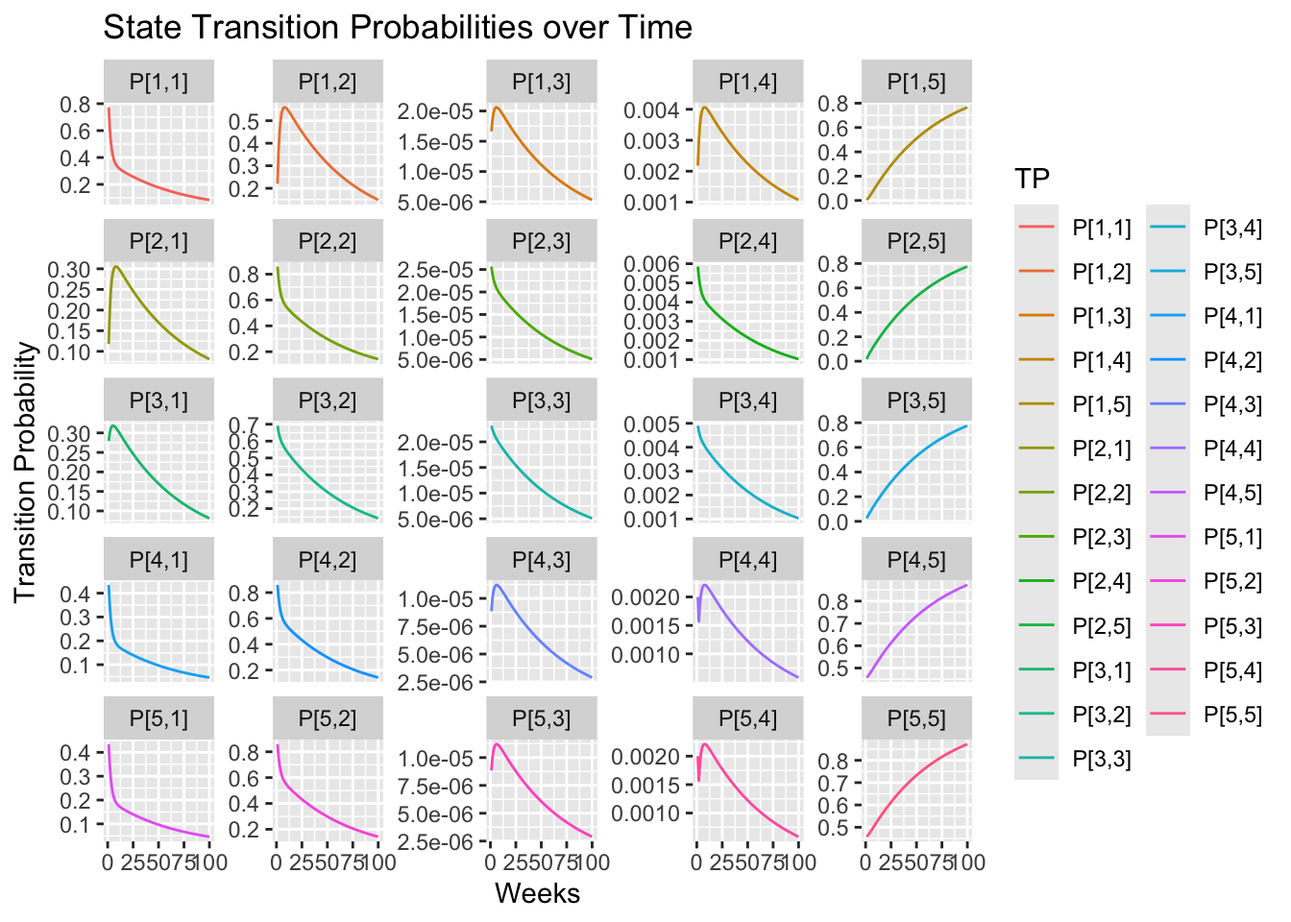
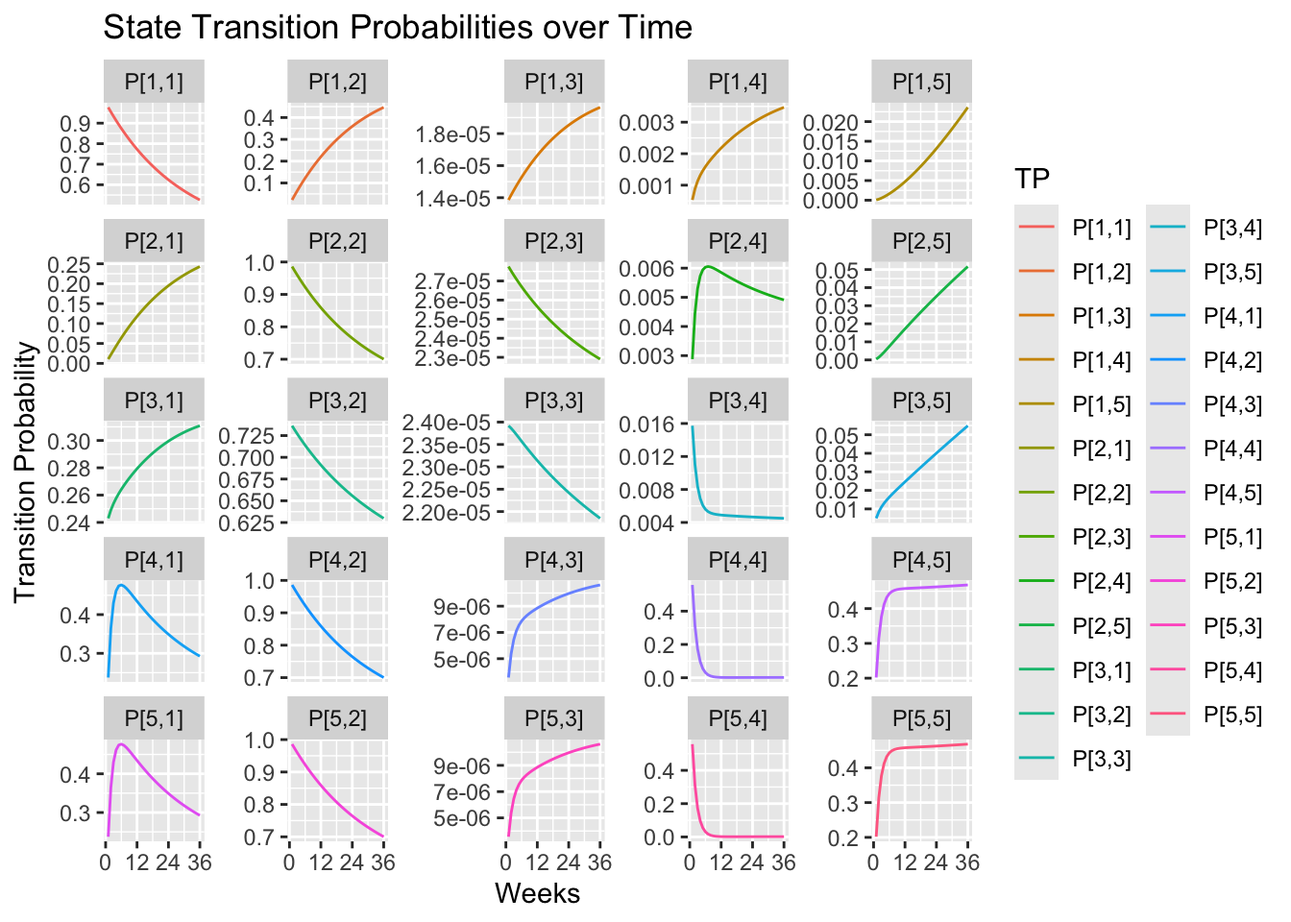
5 state em render products

Changed region(s): [[0.0312, 0.0625, 0.7812, 0.9688]]

diff --git a/5-state-EM.html b/5-state-EM.html
@@ -111,47 +111,46 @@ pre > code.sourceCode > span > a:first-child::before { text-decoration: underlin
 <div class="cell">
 <details>
 <summary>Helper Functions</summary>
-<div class="sourceCode cell-code" id="cb2"><pre class="sourceCode r code-with-copy"><code class="sourceCode r"><span id="cb2-1"><a href="#cb2-1" aria-hidden="true" tabindex="-1"></a>TP5 <span class="ot">&lt;-</span> <span class="cf">function</span>(Q, N){</span>
+<div class="sourceCode cell-code" id="cb2"><pre class="sourceCode r code-with-copy"><code class="sourceCode r"><span id="cb2-1"><a href="#cb2-1" aria-hidden="true" tabindex="-1"></a>TP5 <span class="ot">&lt;-</span> <span class="cf">function</span>(Q, Time){</span>
 <span id="cb2-2"><a href="#cb2-2" aria-hidden="true" tabindex="-1"></a>  <span class="cf">if</span> (<span class="fu">dim</span>(Q)[<span class="dv">1</span>]<span class="sc">*</span><span class="fu">dim</span>(Q)[<span class="dv">2</span>] <span class="sc">!=</span> <span class="dv">25</span>){<span class="fu">stop</span>(<span class="st">"Matrix 'Q' must b e 5 x 5."</span>)}</span>
-<span id="cb2-3"><a href="#cb2-3" aria-hidden="true" tabindex="-1"></a>Time <span class="ot">&lt;-</span> <span class="fu">seq</span>(<span class="dv">1</span>,N)</span>
-<span id="cb2-4"><a href="#cb2-4" aria-hidden="true" tabindex="-1"></a>TP <span class="ot">&lt;-</span> <span class="fu">matrix</span>(<span class="dv">0</span>, <span class="at">nrow=</span><span class="fu">length</span>(Time), <span class="at">ncol=</span><span class="dv">25</span>)</span>
-<span id="cb2-5"><a href="#cb2-5" aria-hidden="true" tabindex="-1"></a><span class="cf">for</span> (t <span class="cf">in</span> Time) {</span>
-<span id="cb2-6"><a href="#cb2-6" aria-hidden="true" tabindex="-1"></a>  P <span class="ot">&lt;-</span> <span class="fu">expm</span>(Q <span class="sc">*</span> t)</span>
-<span id="cb2-7"><a href="#cb2-7" aria-hidden="true" tabindex="-1"></a>  TP[t,<span class="dv">1</span>] <span class="ot">&lt;-</span> P[<span class="dv">1</span>,<span class="dv">1</span>]</span>
-<span id="cb2-8"><a href="#cb2-8" aria-hidden="true" tabindex="-1"></a>  TP[t,<span class="dv">2</span>] <span class="ot">&lt;-</span> P[<span class="dv">1</span>,<span class="dv">2</span>]</span>
-<span id="cb2-9"><a href="#cb2-9" aria-hidden="true" tabindex="-1"></a>  TP[t,<span class="dv">3</span>] <span class="ot">&lt;-</span> P[<span class="dv">1</span>,<span class="dv">3</span>]</span>
-<span id="cb2-10"><a href="#cb2-10" aria-hidden="true" tabindex="-1"></a>  TP[t,<span class="dv">4</span>] <span class="ot">&lt;-</span> P[<span class="dv">1</span>,<span class="dv">4</span>]</span>
-<span id="cb2-11"><a href="#cb2-11" aria-hidden="true" tabindex="-1"></a>  TP[t,<span class="dv">5</span>] <span class="ot">&lt;-</span> P[<span class="dv">1</span>,<span class="dv">5</span>]</span>
-<span id="cb2-12"><a href="#cb2-12" aria-hidden="true" tabindex="-1"></a>  </span>
-<span id="cb2-13"><a href="#cb2-13" aria-hidden="true" tabindex="-1"></a>  TP[t,<span class="dv">6</span>] <span class="ot">&lt;-</span> P[<span class="dv">2</span>,<span class="dv">1</span>]</span>
-<span id="cb2-14"><a href="#cb2-14" aria-hidden="true" tabindex="-1"></a>  TP[t,<span class="dv">7</span>] <span class="ot">&lt;-</span> P[<span class="dv">2</span>,<span class="dv">2</span>]</span>
-<span id="cb2-15"><a href="#cb2-15" aria-hidden="true" tabindex="-1"></a>  TP[t,<span class="dv">8</span>] <span class="ot">&lt;-</span> P[<span class="dv">2</span>,<span class="dv">3</span>]</span>
-<span id="cb2-16"><a href="#cb2-16" aria-hidden="true" tabindex="-1"></a>  TP[t,<span class="dv">9</span>] <span class="ot">&lt;-</span> P[<span class="dv">2</span>,<span class="dv">4</span>]</span>
-<span id="cb2-17"><a href="#cb2-17" aria-hidden="true" tabindex="-1"></a>  TP[t,<span class="dv">10</span>] <span class="ot">&lt;-</span> P[<span class="dv">2</span>,<span class="dv">5</span>]</span>
-<span id="cb2-18"><a href="#cb2-18" aria-hidden="true" tabindex="-1"></a>  </span>
-<span id="cb2-19"><a href="#cb2-19" aria-hidden="true" tabindex="-1"></a>  TP[t,<span class="dv">11</span>] <span class="ot">&lt;-</span> P[<span class="dv">3</span>,<span class="dv">1</span>]</span>
-<span id="cb2-20"><a href="#cb2-20" aria-hidden="true" tabindex="-1"></a>  TP[t,<span class="dv">12</span>] <span class="ot">&lt;-</span> P[<span class="dv">3</span>,<span class="dv">2</span>]</span>
-<span id="cb2-21"><a href="#cb2-21" aria-hidden="true" tabindex="-1"></a>  TP[t,<span class="dv">13</span>] <span class="ot">&lt;-</span> P[<span class="dv">3</span>,<span class="dv">3</span>]</span>
-<span id="cb2-22"><a href="#cb2-22" aria-hidden="true" tabindex="-1"></a>  TP[t,<span class="dv">14</span>] <span class="ot">&lt;-</span> P[<span class="dv">3</span>,<span class="dv">4</span>]</span>
-<span id="cb2-23"><a href="#cb2-23" aria-hidden="true" tabindex="-1"></a>  TP[t,<span class="dv">15</span>] <span class="ot">&lt;-</span> P[<span class="dv">3</span>,<span class="dv">5</span>]</span>
-<span id="cb2-24"><a href="#cb2-24" aria-hidden="true" tabindex="-1"></a>  </span>
-<span id="cb2-25"><a href="#cb2-25" aria-hidden="true" tabindex="-1"></a>  TP[t,<span class="dv">16</span>] <span class="ot">&lt;-</span> P[<span class="dv">4</span>,<span class="dv">1</span>]</span>
-<span id="cb2-26"><a href="#cb2-26" aria-hidden="true" tabindex="-1"></a>  TP[t,<span class="dv">17</span>] <span class="ot">&lt;-</span> P[<span class="dv">2</span>,<span class="dv">2</span>]</span>
-<span id="cb2-27"><a href="#cb2-27" aria-hidden="true" tabindex="-1"></a>  TP[t,<span class="dv">18</span>] <span class="ot">&lt;-</span> P[<span class="dv">4</span>,<span class="dv">3</span>]</span>
-<span id="cb2-28"><a href="#cb2-28" aria-hidden="true" tabindex="-1"></a>  TP[t,<span class="dv">19</span>] <span class="ot">&lt;-</span> P[<span class="dv">4</span>,<span class="dv">4</span>]</span>
-<span id="cb2-29"><a href="#cb2-29" aria-hidden="true" tabindex="-1"></a>  TP[t,<span class="dv">20</span>] <span class="ot">&lt;-</span> P[<span class="dv">4</span>,<span class="dv">5</span>]</span>
-<span id="cb2-30"><a href="#cb2-30" aria-hidden="true" tabindex="-1"></a>  </span>
-<span id="cb2-31"><a href="#cb2-31" aria-hidden="true" tabindex="-1"></a>  TP[t,<span class="dv">21</span>] <span class="ot">&lt;-</span> P[<span class="dv">4</span>,<span class="dv">1</span>]</span>
-<span id="cb2-32"><a href="#cb2-32" aria-hidden="true" tabindex="-1"></a>  TP[t,<span class="dv">22</span>] <span class="ot">&lt;-</span> P[<span class="dv">2</span>,<span class="dv">2</span>]</span>
-<span id="cb2-33"><a href="#cb2-33" aria-hidden="true" tabindex="-1"></a>  TP[t,<span class="dv">23</span>] <span class="ot">&lt;-</span> P[<span class="dv">4</span>,<span class="dv">3</span>]</span>
-<span id="cb2-34"><a href="#cb2-34" aria-hidden="true" tabindex="-1"></a>  TP[t,<span class="dv">24</span>] <span class="ot">&lt;-</span> P[<span class="dv">4</span>,<span class="dv">4</span>]</span>
-<span id="cb2-35"><a href="#cb2-35" aria-hidden="true" tabindex="-1"></a>  TP[t,<span class="dv">25</span>] <span class="ot">&lt;-</span> P[<span class="dv">4</span>,<span class="dv">5</span>]</span>
-<span id="cb2-36"><a href="#cb2-36" aria-hidden="true" tabindex="-1"></a>  </span>
-<span id="cb2-37"><a href="#cb2-37" aria-hidden="true" tabindex="-1"></a>}</span>
-<span id="cb2-38"><a href="#cb2-38" aria-hidden="true" tabindex="-1"></a></span>
-<span id="cb2-39"><a href="#cb2-39" aria-hidden="true" tabindex="-1"></a><span class="fu">return</span>(<span class="fu">list</span>(TP,Time))</span>
-<span id="cb2-40"><a href="#cb2-40" aria-hidden="true" tabindex="-1"></a></span>
-<span id="cb2-41"><a href="#cb2-41" aria-hidden="true" tabindex="-1"></a>}</span></code><button title="Copy to Clipboard" class="code-copy-button"><i class="bi"></i></button></pre></div>
+<span id="cb2-3"><a href="#cb2-3" aria-hidden="true" tabindex="-1"></a>TP <span class="ot">&lt;-</span> <span class="fu">matrix</span>(<span class="dv">0</span>, <span class="at">nrow=</span><span class="fu">length</span>(Time), <span class="at">ncol=</span><span class="dv">25</span>)</span>
+<span id="cb2-4"><a href="#cb2-4" aria-hidden="true" tabindex="-1"></a><span class="cf">for</span> (t <span class="cf">in</span> <span class="dv">1</span><span class="sc">:</span><span class="fu">length</span>(Time)){</span>
+<span id="cb2-5"><a href="#cb2-5" aria-hidden="true" tabindex="-1"></a>  P <span class="ot">&lt;-</span> <span class="fu">expm</span>(Q <span class="sc">*</span> Time[t])</span>
+<span id="cb2-6"><a href="#cb2-6" aria-hidden="true" tabindex="-1"></a>  TP[t,<span class="dv">1</span>] <span class="ot">&lt;-</span> P[<span class="dv">1</span>,<span class="dv">1</span>]</span>
+<span id="cb2-7"><a href="#cb2-7" aria-hidden="true" tabindex="-1"></a>  TP[t,<span class="dv">2</span>] <span class="ot">&lt;-</span> P[<span class="dv">1</span>,<span class="dv">2</span>]</span>
+<span id="cb2-8"><a href="#cb2-8" aria-hidden="true" tabindex="-1"></a>  TP[t,<span class="dv">3</span>] <span class="ot">&lt;-</span> P[<span class="dv">1</span>,<span class="dv">3</span>]</span>
+<span id="cb2-9"><a href="#cb2-9" aria-hidden="true" tabindex="-1"></a>  TP[t,<span class="dv">4</span>] <span class="ot">&lt;-</span> P[<span class="dv">1</span>,<span class="dv">4</span>]</span>
+<span id="cb2-10"><a href="#cb2-10" aria-hidden="true" tabindex="-1"></a>  TP[t,<span class="dv">5</span>] <span class="ot">&lt;-</span> P[<span class="dv">1</span>,<span class="dv">5</span>]</span>
+<span id="cb2-11"><a href="#cb2-11" aria-hidden="true" tabindex="-1"></a>  </span>
+<span id="cb2-12"><a href="#cb2-12" aria-hidden="true" tabindex="-1"></a>  TP[t,<span class="dv">6</span>] <span class="ot">&lt;-</span> P[<span class="dv">2</span>,<span class="dv">1</span>]</span>
+<span id="cb2-13"><a href="#cb2-13" aria-hidden="true" tabindex="-1"></a>  TP[t,<span class="dv">7</span>] <span class="ot">&lt;-</span> P[<span class="dv">2</span>,<span class="dv">2</span>]</span>
+<span id="cb2-14"><a href="#cb2-14" aria-hidden="true" tabindex="-1"></a>  TP[t,<span class="dv">8</span>] <span class="ot">&lt;-</span> P[<span class="dv">2</span>,<span class="dv">3</span>]</span>
+<span id="cb2-15"><a href="#cb2-15" aria-hidden="true" tabindex="-1"></a>  TP[t,<span class="dv">9</span>] <span class="ot">&lt;-</span> P[<span class="dv">2</span>,<span class="dv">4</span>]</span>
+<span id="cb2-16"><a href="#cb2-16" aria-hidden="true" tabindex="-1"></a>  TP[t,<span class="dv">10</span>] <span class="ot">&lt;-</span> P[<span class="dv">2</span>,<span class="dv">5</span>]</span>
+<span id="cb2-17"><a href="#cb2-17" aria-hidden="true" tabindex="-1"></a>  </span>
+<span id="cb2-18"><a href="#cb2-18" aria-hidden="true" tabindex="-1"></a>  TP[t,<span class="dv">11</span>] <span class="ot">&lt;-</span> P[<span class="dv">3</span>,<span class="dv">1</span>]</span>
+<span id="cb2-19"><a href="#cb2-19" aria-hidden="true" tabindex="-1"></a>  TP[t,<span class="dv">12</span>] <span class="ot">&lt;-</span> P[<span class="dv">3</span>,<span class="dv">2</span>]</span>
+<span id="cb2-20"><a href="#cb2-20" aria-hidden="true" tabindex="-1"></a>  TP[t,<span class="dv">13</span>] <span class="ot">&lt;-</span> P[<span class="dv">3</span>,<span class="dv">3</span>]</span>
+<span id="cb2-21"><a href="#cb2-21" aria-hidden="true" tabindex="-1"></a>  TP[t,<span class="dv">14</span>] <span class="ot">&lt;-</span> P[<span class="dv">3</span>,<span class="dv">4</span>]</span>
+<span id="cb2-22"><a href="#cb2-22" aria-hidden="true" tabindex="-1"></a>  TP[t,<span class="dv">15</span>] <span class="ot">&lt;-</span> P[<span class="dv">3</span>,<span class="dv">5</span>]</span>
+<span id="cb2-23"><a href="#cb2-23" aria-hidden="true" tabindex="-1"></a>  </span>
+<span id="cb2-24"><a href="#cb2-24" aria-hidden="true" tabindex="-1"></a>  TP[t,<span class="dv">16</span>] <span class="ot">&lt;-</span> P[<span class="dv">4</span>,<span class="dv">1</span>]</span>
+<span id="cb2-25"><a href="#cb2-25" aria-hidden="true" tabindex="-1"></a>  TP[t,<span class="dv">17</span>] <span class="ot">&lt;-</span> P[<span class="dv">2</span>,<span class="dv">2</span>]</span>
+<span id="cb2-26"><a href="#cb2-26" aria-hidden="true" tabindex="-1"></a>  TP[t,<span class="dv">18</span>] <span class="ot">&lt;-</span> P[<span class="dv">4</span>,<span class="dv">3</span>]</span>
+<span id="cb2-27"><a href="#cb2-27" aria-hidden="true" tabindex="-1"></a>  TP[t,<span class="dv">19</span>] <span class="ot">&lt;-</span> P[<span class="dv">4</span>,<span class="dv">4</span>]</span>
+<span id="cb2-28"><a href="#cb2-28" aria-hidden="true" tabindex="-1"></a>  TP[t,<span class="dv">20</span>] <span class="ot">&lt;-</span> P[<span class="dv">4</span>,<span class="dv">5</span>]</span>
+<span id="cb2-29"><a href="#cb2-29" aria-hidden="true" tabindex="-1"></a>  </span>
+<span id="cb2-30"><a href="#cb2-30" aria-hidden="true" tabindex="-1"></a>  TP[t,<span class="dv">21</span>] <span class="ot">&lt;-</span> P[<span class="dv">4</span>,<span class="dv">1</span>]</span>
+<span id="cb2-31"><a href="#cb2-31" aria-hidden="true" tabindex="-1"></a>  TP[t,<span class="dv">22</span>] <span class="ot">&lt;-</span> P[<span class="dv">2</span>,<span class="dv">2</span>]</span>
+<span id="cb2-32"><a href="#cb2-32" aria-hidden="true" tabindex="-1"></a>  TP[t,<span class="dv">23</span>] <span class="ot">&lt;-</span> P[<span class="dv">4</span>,<span class="dv">3</span>]</span>
+<span id="cb2-33"><a href="#cb2-33" aria-hidden="true" tabindex="-1"></a>  TP[t,<span class="dv">24</span>] <span class="ot">&lt;-</span> P[<span class="dv">4</span>,<span class="dv">4</span>]</span>
+<span id="cb2-34"><a href="#cb2-34" aria-hidden="true" tabindex="-1"></a>  TP[t,<span class="dv">25</span>] <span class="ot">&lt;-</span> P[<span class="dv">4</span>,<span class="dv">5</span>]</span>
+<span id="cb2-35"><a href="#cb2-35" aria-hidden="true" tabindex="-1"></a>  </span>
+<span id="cb2-36"><a href="#cb2-36" aria-hidden="true" tabindex="-1"></a>}</span>
+<span id="cb2-37"><a href="#cb2-37" aria-hidden="true" tabindex="-1"></a></span>
+<span id="cb2-38"><a href="#cb2-38" aria-hidden="true" tabindex="-1"></a><span class="fu">return</span>(<span class="fu">list</span>(TP,Time))</span>
+<span id="cb2-39"><a href="#cb2-39" aria-hidden="true" tabindex="-1"></a></span>
+<span id="cb2-40"><a href="#cb2-40" aria-hidden="true" tabindex="-1"></a>}</span></code><button title="Copy to Clipboard" class="code-copy-button"><i class="bi"></i></button></pre></div>
 </details>
 </div>
 <div class="cell">
@@ -208,13 +207,13 @@ pre > code.sourceCode > span > a:first-child::before { text-decoration: underlin
 <div class="cell">
 <details>
 <summary>Q Matrix</summary>
-<div class="sourceCode cell-code" id="cb4"><pre class="sourceCode r code-with-copy"><code class="sourceCode r"><span id="cb4-1"><a href="#cb4-1" aria-hidden="true" tabindex="-1"></a>sem_s <span class="ot">&lt;-</span> <span class="fu">gm</span>(s_state, <span class="at">te=</span><span class="dv">1</span>, <span class="at">method=</span><span class="st">"EM"</span>, <span class="at">gmguess=</span>s0)</span>
+<div class="sourceCode cell-code" id="cb4"><pre class="sourceCode r code-with-copy"><code class="sourceCode r"><span id="cb4-1"><a href="#cb4-1" aria-hidden="true" tabindex="-1"></a>em_s <span class="ot">&lt;-</span> <span class="fu">gm</span>(s_state, <span class="at">te=</span><span class="dv">1</span>, <span class="at">method=</span><span class="st">"EM"</span>, <span class="at">gmguess=</span>s0)</span>
 <span id="cb4-2"><a href="#cb4-2" aria-hidden="true" tabindex="-1"></a></span>
-<span id="cb4-3"><a href="#cb4-3" aria-hidden="true" tabindex="-1"></a> t <span class="ot">&lt;-</span> <span class="dv">1</span>  <span class="co"># time interval</span></span>
-<span id="cb4-4"><a href="#cb4-4" aria-hidden="true" tabindex="-1"></a> Q_s  <span class="ot">&lt;-</span>sem_s<span class="sc">$</span>par</span>
+<span id="cb4-3"><a href="#cb4-3" aria-hidden="true" tabindex="-1"></a> <span class="co">#t &lt;- 1  # time interval</span></span>
+<span id="cb4-4"><a href="#cb4-4" aria-hidden="true" tabindex="-1"></a> Q_s  <span class="ot">&lt;-</span>em_s<span class="sc">$</span>par</span>
 <span id="cb4-5"><a href="#cb4-5" aria-hidden="true" tabindex="-1"></a><span class="co"># round(Q_s,2)</span></span>
 <span id="cb4-6"><a href="#cb4-6" aria-hidden="true" tabindex="-1"></a><span class="co"># cat("time = ", t, "\n")</span></span>
-<span id="cb4-7"><a href="#cb4-7" aria-hidden="true" tabindex="-1"></a><span class="fu">plot</span>(sem_s)</span></code><button title="Copy to Clipboard" class="code-copy-button"><i class="bi"></i></button></pre></div>
+<span id="cb4-7"><a href="#cb4-7" aria-hidden="true" tabindex="-1"></a><span class="fu">plot</span>(em_s)</span></code><button title="Copy to Clipboard" class="code-copy-button"><i class="bi"></i></button></pre></div>
 </details>
 <div class="cell-output-display">
 <p><img src="5-state-EM_files/figure-html/unnamed-chunk-4-1.png" class="img-fluid" width="672"></p>
@@ -223,8 +222,9 @@ pre > code.sourceCode > span > a:first-child::before { text-decoration: underlin
 <div class="cell">
 <details>
 <summary>P matrix</summary>
-<div class="sourceCode cell-code" id="cb5"><pre class="sourceCode r code-with-copy"><code class="sourceCode r"><span id="cb5-1"><a href="#cb5-1" aria-hidden="true" tabindex="-1"></a>P_s <span class="ot">&lt;-</span> <span class="fu">expm</span>(Q_s <span class="sc">*</span> t)</span>
-<span id="cb5-2"><a href="#cb5-2" aria-hidden="true" tabindex="-1"></a><span class="fu">round</span>(P_s,<span class="dv">2</span>)</span></code><button title="Copy to Clipboard" class="code-copy-button"><i class="bi"></i></button></pre></div>
+<div class="sourceCode cell-code" id="cb5"><pre class="sourceCode r code-with-copy"><code class="sourceCode r"><span id="cb5-1"><a href="#cb5-1" aria-hidden="true" tabindex="-1"></a>t <span class="ot">&lt;-</span> <span class="dv">1</span></span>
+<span id="cb5-2"><a href="#cb5-2" aria-hidden="true" tabindex="-1"></a>P_s <span class="ot">&lt;-</span> <span class="fu">expm</span>(Q_s <span class="sc">*</span> t)</span>
+<span id="cb5-3"><a href="#cb5-3" aria-hidden="true" tabindex="-1"></a><span class="fu">round</span>(P_s,<span class="dv">2</span>)</span></code><button title="Copy to Clipboard" class="code-copy-button"><i class="bi"></i></button></pre></div>
 </details>
 <div class="cell-output cell-output-stdout">
 <pre><code>     STW  UTW Hex  Pex   TF
@@ -251,13 +251,13 @@ TF  0.00 0.00   0 0.00 1.00</code></pre>
 <div class="cell">
 <details>
 <summary>Q Matrix</summary>
-<div class="sourceCode cell-code" id="cb9"><pre class="sourceCode r code-with-copy"><code class="sourceCode r"><span id="cb9-1"><a href="#cb9-1" aria-hidden="true" tabindex="-1"></a>sem_f <span class="ot">&lt;-</span> <span class="fu">gm</span>(f_state, <span class="at">te=</span><span class="dv">1</span>, <span class="at">method=</span><span class="st">"EM"</span>, <span class="at">gmguess=</span>s0)</span>
+<div class="sourceCode cell-code" id="cb9"><pre class="sourceCode r code-with-copy"><code class="sourceCode r"><span id="cb9-1"><a href="#cb9-1" aria-hidden="true" tabindex="-1"></a>em_f <span class="ot">&lt;-</span> <span class="fu">gm</span>(f_state, <span class="at">te=</span><span class="dv">1</span>, <span class="at">method=</span><span class="st">"EM"</span>, <span class="at">gmguess=</span>s0)</span>
 <span id="cb9-2"><a href="#cb9-2" aria-hidden="true" tabindex="-1"></a></span>
-<span id="cb9-3"><a href="#cb9-3" aria-hidden="true" tabindex="-1"></a>t <span class="ot">&lt;-</span> <span class="dv">1</span>  <span class="co"># time interval</span></span>
-<span id="cb9-4"><a href="#cb9-4" aria-hidden="true" tabindex="-1"></a>Q_f  <span class="ot">&lt;-</span>sem_f<span class="sc">$</span>par</span>
+<span id="cb9-3"><a href="#cb9-3" aria-hidden="true" tabindex="-1"></a><span class="co">#t &lt;- 1  # time interval</span></span>
+<span id="cb9-4"><a href="#cb9-4" aria-hidden="true" tabindex="-1"></a>Q_f  <span class="ot">&lt;-</span>em_f<span class="sc">$</span>par</span>
 <span id="cb9-5"><a href="#cb9-5" aria-hidden="true" tabindex="-1"></a><span class="co"># round(Q_f,2)</span></span>
 <span id="cb9-6"><a href="#cb9-6" aria-hidden="true" tabindex="-1"></a><span class="co"># cat("time = ", t, "\n")</span></span>
-<span id="cb9-7"><a href="#cb9-7" aria-hidden="true" tabindex="-1"></a><span class="fu">plot</span>(sem_f)</span></code><button title="Copy to Clipboard" class="code-copy-button"><i class="bi"></i></button></pre></div>
+<span id="cb9-7"><a href="#cb9-7" aria-hidden="true" tabindex="-1"></a><span class="fu">plot</span>(em_f)</span></code><button title="Copy to Clipboard" class="code-copy-button"><i class="bi"></i></button></pre></div>
 </details>
 <div class="cell-output-display">
 <p><img src="5-state-EM_files/figure-html/unnamed-chunk-6-1.png" class="img-fluid" width="672"></p>
@@ -266,8 +266,9 @@ TF  0.00 0.00   0 0.00 1.00</code></pre>
 <div class="cell">
 <details>
 <summary>P matrix</summary>
-<div class="sourceCode cell-code" id="cb10"><pre class="sourceCode r code-with-copy"><code class="sourceCode r"><span id="cb10-1"><a href="#cb10-1" aria-hidden="true" tabindex="-1"></a>P_f <span class="ot">&lt;-</span> <span class="fu">expm</span>(Q_f <span class="sc">*</span> t)</span>
-<span id="cb10-2"><a href="#cb10-2" aria-hidden="true" tabindex="-1"></a><span class="fu">round</span>(P_f,<span class="dv">2</span>)</span></code><button title="Copy to Clipboard" class="code-copy-button"><i class="bi"></i></button></pre></div>
+<div class="sourceCode cell-code" id="cb10"><pre class="sourceCode r code-with-copy"><code class="sourceCode r"><span id="cb10-1"><a href="#cb10-1" aria-hidden="true" tabindex="-1"></a>t <span class="ot">&lt;-</span> <span class="dv">1</span></span>
+<span id="cb10-2"><a href="#cb10-2" aria-hidden="true" tabindex="-1"></a>P_f <span class="ot">&lt;-</span> <span class="fu">expm</span>(Q_f <span class="sc">*</span> t)</span>
+<span id="cb10-3"><a href="#cb10-3" aria-hidden="true" tabindex="-1"></a><span class="fu">round</span>(P_f,<span class="dv">2</span>)</span></code><button title="Copy to Clipboard" class="code-copy-button"><i class="bi"></i></button></pre></div>
 </details>
 <div class="cell-output cell-output-stdout">
 <pre><code>     STW  UTW Hex  Pex   TF
@@ -295,33 +296,36 @@ TF  0.00 0.00   0 0.00 1.00</code></pre>
 <div class="cell">
 <details>
 <summary>Show the Plot Code</summary>
-<div class="sourceCode cell-code" id="cb14"><pre class="sourceCode r code-with-copy"><code class="sourceCode r"><span id="cb14-1"><a href="#cb14-1" aria-hidden="true" tabindex="-1"></a>TP_M <span class="ot">&lt;-</span> <span class="fu">TP5</span>(Q_s, <span class="dv">100</span>)</span>
-<span id="cb14-2"><a href="#cb14-2" aria-hidden="true" tabindex="-1"></a>probs <span class="ot">&lt;-</span> <span class="fu">as.data.frame</span>(TP_M[<span class="dv">1</span>])</span>
-<span id="cb14-3"><a href="#cb14-3" aria-hidden="true" tabindex="-1"></a>TP_s <span class="ot">&lt;-</span> <span class="fu">cbind</span>(<span class="at">Weeks =</span> TP_M[<span class="dv">2</span>], probs)</span>
-<span id="cb14-4"><a href="#cb14-4" aria-hidden="true" tabindex="-1"></a><span class="fu">names</span>(TP_s) <span class="ot">&lt;-</span> <span class="fu">c</span>(<span class="st">"Weeks"</span>,</span>
-<span id="cb14-5"><a href="#cb14-5" aria-hidden="true" tabindex="-1"></a>               <span class="st">"P[1,1]"</span>, <span class="st">"P[1,2]"</span>, <span class="st">"P[1,3]"</span>, <span class="st">"P[1,4]"</span>, <span class="st">"P[1,5]"</span>,</span>
-<span id="cb14-6"><a href="#cb14-6" aria-hidden="true" tabindex="-1"></a>               <span class="st">"P[2,1]"</span>, <span class="st">"P[2,2]"</span>, <span class="st">"P[2,3]"</span>, <span class="st">"P[2,4]"</span>, <span class="st">"P[2,5]"</span>,</span>
-<span id="cb14-7"><a href="#cb14-7" aria-hidden="true" tabindex="-1"></a>               <span class="st">"P[3,1]"</span>, <span class="st">"P[3,2]"</span>, <span class="st">"P[3,3]"</span>, <span class="st">"P[3,4]"</span>, <span class="st">"P[3,5]"</span>,</span>
-<span id="cb14-8"><a href="#cb14-8" aria-hidden="true" tabindex="-1"></a>               <span class="st">"P[4,1]"</span>, <span class="st">"P[4,2]"</span>, <span class="st">"P[4,3]"</span>, <span class="st">"P[4,4]"</span>, <span class="st">"P[4,5]"</span>,</span>
-<span id="cb14-9"><a href="#cb14-9" aria-hidden="true" tabindex="-1"></a>               <span class="st">"P[5,1]"</span>, <span class="st">"P[5,2]"</span>, <span class="st">"P[5,3]"</span>, <span class="st">"P[5,4]"</span>, <span class="st">"P[5,5]"</span>)</span>
-<span id="cb14-10"><a href="#cb14-10" aria-hidden="true" tabindex="-1"></a></span>
-<span id="cb14-11"><a href="#cb14-11" aria-hidden="true" tabindex="-1"></a></span>
-<span id="cb14-12"><a href="#cb14-12" aria-hidden="true" tabindex="-1"></a><span class="co">#head(TP)</span></span>
+<div class="sourceCode cell-code" id="cb14"><pre class="sourceCode r code-with-copy"><code class="sourceCode r"><span id="cb14-1"><a href="#cb14-1" aria-hidden="true" tabindex="-1"></a>Time <span class="ot">&lt;-</span> <span class="fu">seq</span>(<span class="dv">1</span><span class="sc">/</span><span class="dv">12</span>,<span class="dv">3</span>,<span class="at">by =</span> <span class="dv">1</span><span class="sc">/</span><span class="dv">12</span>)</span>
+<span id="cb14-2"><a href="#cb14-2" aria-hidden="true" tabindex="-1"></a>TP_Mat_s <span class="ot">&lt;-</span> <span class="fu">TP5</span>(<span class="at">Q =</span> Q_s, <span class="at">Time =</span> Time)</span>
+<span id="cb14-3"><a href="#cb14-3" aria-hidden="true" tabindex="-1"></a>probs_s <span class="ot">&lt;-</span> <span class="fu">as.data.frame</span>(TP_Mat_s[<span class="dv">1</span>])</span>
+<span id="cb14-4"><a href="#cb14-4" aria-hidden="true" tabindex="-1"></a>Weeks <span class="ot">&lt;-</span> <span class="dv">1</span><span class="sc">:</span> <span class="fu">length</span>(Time)</span>
+<span id="cb14-5"><a href="#cb14-5" aria-hidden="true" tabindex="-1"></a>TP_s <span class="ot">&lt;-</span> <span class="fu">cbind</span>(Weeks, TP_Mat_s[<span class="dv">2</span>], probs_s)</span>
+<span id="cb14-6"><a href="#cb14-6" aria-hidden="true" tabindex="-1"></a><span class="fu">names</span>(TP_s) <span class="ot">&lt;-</span> <span class="fu">c</span>(<span class="st">"Weeks"</span>, <span class="st">"Time"</span>,</span>
+<span id="cb14-7"><a href="#cb14-7" aria-hidden="true" tabindex="-1"></a>               <span class="st">"P[1,1]"</span>, <span class="st">"P[1,2]"</span>, <span class="st">"P[1,3]"</span>, <span class="st">"P[1,4]"</span>, <span class="st">"P[1,5]"</span>,</span>
+<span id="cb14-8"><a href="#cb14-8" aria-hidden="true" tabindex="-1"></a>               <span class="st">"P[2,1]"</span>, <span class="st">"P[2,2]"</span>, <span class="st">"P[2,3]"</span>, <span class="st">"P[2,4]"</span>, <span class="st">"P[2,5]"</span>,</span>
+<span id="cb14-9"><a href="#cb14-9" aria-hidden="true" tabindex="-1"></a>               <span class="st">"P[3,1]"</span>, <span class="st">"P[3,2]"</span>, <span class="st">"P[3,3]"</span>, <span class="st">"P[3,4]"</span>, <span class="st">"P[3,5]"</span>,</span>
+<span id="cb14-10"><a href="#cb14-10" aria-hidden="true" tabindex="-1"></a>               <span class="st">"P[4,1]"</span>, <span class="st">"P[4,2]"</span>, <span class="st">"P[4,3]"</span>, <span class="st">"P[4,4]"</span>, <span class="st">"P[4,5]"</span>,</span>
+<span id="cb14-11"><a href="#cb14-11" aria-hidden="true" tabindex="-1"></a>               <span class="st">"P[5,1]"</span>, <span class="st">"P[5,2]"</span>, <span class="st">"P[5,3]"</span>, <span class="st">"P[5,4]"</span>, <span class="st">"P[5,5]"</span>)</span>
+<span id="cb14-12"><a href="#cb14-12" aria-hidden="true" tabindex="-1"></a></span>
 <span id="cb14-13"><a href="#cb14-13" aria-hidden="true" tabindex="-1"></a></span>
-<span id="cb14-14"><a href="#cb14-14" aria-hidden="true" tabindex="-1"></a></span>
-<span id="cb14-15"><a href="#cb14-15" aria-hidden="true" tabindex="-1"></a>df_long <span class="ot">&lt;-</span> TP_s <span class="sc">%&gt;%</span></span>
-<span id="cb14-16"><a href="#cb14-16" aria-hidden="true" tabindex="-1"></a>  <span class="fu">pivot_longer</span>(</span>
-<span id="cb14-17"><a href="#cb14-17" aria-hidden="true" tabindex="-1"></a>    <span class="at">cols =</span> <span class="fu">starts_with</span>(<span class="st">"P["</span>), <span class="co"># Selects all columns starting with "P["</span></span>
-<span id="cb14-18"><a href="#cb14-18" aria-hidden="true" tabindex="-1"></a>    <span class="at">names_to =</span> <span class="st">"TP"</span>,    <span class="co"># New column for the original column names</span></span>
-<span id="cb14-19"><a href="#cb14-19" aria-hidden="true" tabindex="-1"></a>    <span class="at">values_to =</span> <span class="st">"Value"</span>        <span class="co"># New column for the values</span></span>
-<span id="cb14-20"><a href="#cb14-20" aria-hidden="true" tabindex="-1"></a>  )</span>
-<span id="cb14-21"><a href="#cb14-21" aria-hidden="true" tabindex="-1"></a></span>
-<span id="cb14-22"><a href="#cb14-22" aria-hidden="true" tabindex="-1"></a>Probs_s <span class="ot">&lt;-</span> df_long <span class="sc">|&gt;</span> <span class="fu">ggplot</span>(<span class="fu">aes</span>(<span class="at">x =</span> Weeks, <span class="at">y =</span> Value, <span class="at">color =</span> TP)) <span class="sc">+</span></span>
-<span id="cb14-23"><a href="#cb14-23" aria-hidden="true" tabindex="-1"></a>  <span class="fu">geom_line</span>() <span class="sc">+</span></span>
-<span id="cb14-24"><a href="#cb14-24" aria-hidden="true" tabindex="-1"></a>  <span class="fu">facet_wrap</span>(<span class="sc">~</span> TP, <span class="at">scales =</span> <span class="st">"free_y"</span>) <span class="sc">+</span></span>
-<span id="cb14-25"><a href="#cb14-25" aria-hidden="true" tabindex="-1"></a>  <span class="fu">labs</span>(<span class="at">title =</span> <span class="st">"State Transition Probabilities over Time"</span>,</span>
-<span id="cb14-26"><a href="#cb14-26" aria-hidden="true" tabindex="-1"></a>       <span class="at">x =</span> <span class="st">"Weeks"</span>, <span class="at">y =</span> <span class="st">"Transition Probability"</span>)</span>
-<span id="cb14-27"><a href="#cb14-27" aria-hidden="true" tabindex="-1"></a>Probs_s</span></code><button title="Copy to Clipboard" class="code-copy-button"><i class="bi"></i></button></pre></div>
+<span id="cb14-14"><a href="#cb14-14" aria-hidden="true" tabindex="-1"></a><span class="co">#head(TP)</span></span>
+<span id="cb14-15"><a href="#cb14-15" aria-hidden="true" tabindex="-1"></a></span>
+<span id="cb14-16"><a href="#cb14-16" aria-hidden="true" tabindex="-1"></a></span>
+<span id="cb14-17"><a href="#cb14-17" aria-hidden="true" tabindex="-1"></a>df_long_s <span class="ot">&lt;-</span> TP_s <span class="sc">%&gt;%</span></span>
+<span id="cb14-18"><a href="#cb14-18" aria-hidden="true" tabindex="-1"></a>  <span class="fu">pivot_longer</span>(</span>
+<span id="cb14-19"><a href="#cb14-19" aria-hidden="true" tabindex="-1"></a>    <span class="at">cols =</span> <span class="fu">starts_with</span>(<span class="st">"P["</span>), <span class="co"># Selects all columns starting with "P["</span></span>
+<span id="cb14-20"><a href="#cb14-20" aria-hidden="true" tabindex="-1"></a>    <span class="at">names_to =</span> <span class="st">"TP"</span>,    <span class="co"># New column for the original column names</span></span>
+<span id="cb14-21"><a href="#cb14-21" aria-hidden="true" tabindex="-1"></a>    <span class="at">values_to =</span> <span class="st">"Value"</span>        <span class="co"># New column for the values</span></span>
+<span id="cb14-22"><a href="#cb14-22" aria-hidden="true" tabindex="-1"></a>  )</span>
+<span id="cb14-23"><a href="#cb14-23" aria-hidden="true" tabindex="-1"></a></span>
+<span id="cb14-24"><a href="#cb14-24" aria-hidden="true" tabindex="-1"></a>Probs_s <span class="ot">&lt;-</span> df_long_s <span class="sc">|&gt;</span> <span class="fu">ggplot</span>(<span class="fu">aes</span>(<span class="at">x =</span> Weeks, <span class="at">y =</span> Value, <span class="at">color =</span> TP)) <span class="sc">+</span></span>
+<span id="cb14-25"><a href="#cb14-25" aria-hidden="true" tabindex="-1"></a>  <span class="fu">geom_line</span>() <span class="sc">+</span></span>
+<span id="cb14-26"><a href="#cb14-26" aria-hidden="true" tabindex="-1"></a>  <span class="fu">facet_wrap</span>(<span class="sc">~</span> TP, <span class="at">scales =</span> <span class="st">"free_y"</span>) <span class="sc">+</span></span>
+<span id="cb14-27"><a href="#cb14-27" aria-hidden="true" tabindex="-1"></a>  <span class="fu">scale_x_continuous</span>(<span class="st">`</span><span class="at">breaks</span><span class="st">`</span> <span class="ot">=</span> <span class="fu">seq</span>(<span class="dv">0</span>, <span class="fu">length</span>(Weeks), <span class="at">by =</span> <span class="dv">12</span>)) <span class="sc">+</span></span>
+<span id="cb14-28"><a href="#cb14-28" aria-hidden="true" tabindex="-1"></a>  <span class="fu">labs</span>(<span class="at">title =</span> <span class="st">"State Transition Probabilities over Time"</span>,</span>
+<span id="cb14-29"><a href="#cb14-29" aria-hidden="true" tabindex="-1"></a>       <span class="at">x =</span> <span class="st">"Weeks"</span>, <span class="at">y =</span> <span class="st">"Transition Probability"</span>)</span>
+<span id="cb14-30"><a href="#cb14-30" aria-hidden="true" tabindex="-1"></a>Probs_s</span></code><button title="Copy to Clipboard" class="code-copy-button"><i class="bi"></i></button></pre></div>
 </details>
 <div class="cell-output-display">
 <p><img src="5-state-EM_files/figure-html/unnamed-chunk-8-1.png" class="img-fluid" width="672"></p>
@@ -333,33 +337,37 @@ TF  0.00 0.00   0 0.00 1.00</code></pre>
 <div class="cell">
 <details>
 <summary>Show the Plot Code</summary>
-<div class="sourceCode cell-code" id="cb15"><pre class="sourceCode r code-with-copy"><code class="sourceCode r"><span id="cb15-1"><a href="#cb15-1" aria-hidden="true" tabindex="-1"></a>TP_M <span class="ot">&lt;-</span> <span class="fu">TP5</span>(Q_f, <span class="dv">100</span>)</span>
-<span id="cb15-2"><a href="#cb15-2" aria-hidden="true" tabindex="-1"></a>probs <span class="ot">&lt;-</span> <span class="fu">as.data.frame</span>(TP_M[<span class="dv">1</span>])</span>
-<span id="cb15-3"><a href="#cb15-3" aria-hidden="true" tabindex="-1"></a>TP_f <span class="ot">&lt;-</span> <span class="fu">cbind</span>(<span class="at">Weeks =</span> TP_M[<span class="dv">2</span>], probs)</span>
-<span id="cb15-4"><a href="#cb15-4" aria-hidden="true" tabindex="-1"></a><span class="fu">names</span>(TP_f) <span class="ot">&lt;-</span> <span class="fu">c</span>(<span class="st">"Weeks"</span>,</span>
-<span id="cb15-5"><a href="#cb15-5" aria-hidden="true" tabindex="-1"></a>               <span class="st">"P[1,1]"</span>, <span class="st">"P[1,2]"</span>, <span class="st">"P[1,3]"</span>, <span class="st">"P[1,4]"</span>, <span class="st">"P[1,5]"</span>,</span>
-<span id="cb15-6"><a href="#cb15-6" aria-hidden="true" tabindex="-1"></a>               <span class="st">"P[2,1]"</span>, <span class="st">"P[2,2]"</span>, <span class="st">"P[2,3]"</span>, <span class="st">"P[2,4]"</span>, <span class="st">"P[2,5]"</span>,</span>
-<span id="cb15-7"><a href="#cb15-7" aria-hidden="true" tabindex="-1"></a>               <span class="st">"P[3,1]"</span>, <span class="st">"P[3,2]"</span>, <span class="st">"P[3,3]"</span>, <span class="st">"P[3,4]"</span>, <span class="st">"P[3,5]"</span>,</span>
-<span id="cb15-8"><a href="#cb15-8" aria-hidden="true" tabindex="-1"></a>               <span class="st">"P[4,1]"</span>, <span class="st">"P[4,2]"</span>, <span class="st">"P[4,3]"</span>, <span class="st">"P[4,4]"</span>, <span class="st">"P[4,5]"</span>,</span>
-<span id="cb15-9"><a href="#cb15-9" aria-hidden="true" tabindex="-1"></a>               <span class="st">"P[5,1]"</span>, <span class="st">"P[5,2]"</span>, <span class="st">"P[5,3]"</span>, <span class="st">"P[5,4]"</span>, <span class="st">"P[5,5]"</span>)</span>
-<span id="cb15-10"><a href="#cb15-10" aria-hidden="true" tabindex="-1"></a></span>
-<span id="cb15-11"><a href="#cb15-11" aria-hidden="true" tabindex="-1"></a></span>
-<span id="cb15-12"><a href="#cb15-12" aria-hidden="true" tabindex="-1"></a><span class="co">#head(TP)</span></span>
+<div class="sourceCode cell-code" id="cb15"><pre class="sourceCode r code-with-copy"><code class="sourceCode r"><span id="cb15-1"><a href="#cb15-1" aria-hidden="true" tabindex="-1"></a>Time <span class="ot">&lt;-</span> <span class="fu">seq</span>(<span class="dv">1</span><span class="sc">/</span><span class="dv">12</span>,<span class="dv">3</span>,<span class="at">by =</span> <span class="dv">1</span><span class="sc">/</span><span class="dv">12</span>)</span>
+<span id="cb15-2"><a href="#cb15-2" aria-hidden="true" tabindex="-1"></a>TP_Mat_f <span class="ot">&lt;-</span> <span class="fu">TP5</span>(<span class="at">Q =</span> Q_f, <span class="at">Time =</span> Time)</span>
+<span id="cb15-3"><a href="#cb15-3" aria-hidden="true" tabindex="-1"></a>probs_f <span class="ot">&lt;-</span> <span class="fu">as.data.frame</span>(TP_Mat_f[<span class="dv">1</span>])</span>
+<span id="cb15-4"><a href="#cb15-4" aria-hidden="true" tabindex="-1"></a>Weeks <span class="ot">&lt;-</span> <span class="dv">1</span><span class="sc">:</span> <span class="fu">length</span>(Time)</span>
+<span id="cb15-5"><a href="#cb15-5" aria-hidden="true" tabindex="-1"></a>TP_f <span class="ot">&lt;-</span> <span class="fu">cbind</span>(Weeks, TP_Mat_f[<span class="dv">2</span>], probs_f)</span>
+<span id="cb15-6"><a href="#cb15-6" aria-hidden="true" tabindex="-1"></a></span>
+<span id="cb15-7"><a href="#cb15-7" aria-hidden="true" tabindex="-1"></a><span class="fu">names</span>(TP_f) <span class="ot">&lt;-</span> <span class="fu">c</span>(<span class="st">"Weeks"</span>, <span class="st">"Time"</span>,</span>
+<span id="cb15-8"><a href="#cb15-8" aria-hidden="true" tabindex="-1"></a>               <span class="st">"P[1,1]"</span>, <span class="st">"P[1,2]"</span>, <span class="st">"P[1,3]"</span>, <span class="st">"P[1,4]"</span>, <span class="st">"P[1,5]"</span>,</span>
+<span id="cb15-9"><a href="#cb15-9" aria-hidden="true" tabindex="-1"></a>               <span class="st">"P[2,1]"</span>, <span class="st">"P[2,2]"</span>, <span class="st">"P[2,3]"</span>, <span class="st">"P[2,4]"</span>, <span class="st">"P[2,5]"</span>,</span>
+<span id="cb15-10"><a href="#cb15-10" aria-hidden="true" tabindex="-1"></a>               <span class="st">"P[3,1]"</span>, <span class="st">"P[3,2]"</span>, <span class="st">"P[3,3]"</span>, <span class="st">"P[3,4]"</span>, <span class="st">"P[3,5]"</span>,</span>
+<span id="cb15-11"><a href="#cb15-11" aria-hidden="true" tabindex="-1"></a>               <span class="st">"P[4,1]"</span>, <span class="st">"P[4,2]"</span>, <span class="st">"P[4,3]"</span>, <span class="st">"P[4,4]"</span>, <span class="st">"P[4,5]"</span>,</span>
+<span id="cb15-12"><a href="#cb15-12" aria-hidden="true" tabindex="-1"></a>               <span class="st">"P[5,1]"</span>, <span class="st">"P[5,2]"</span>, <span class="st">"P[5,3]"</span>, <span class="st">"P[5,4]"</span>, <span class="st">"P[5,5]"</span>)</span>
 <span id="cb15-13"><a href="#cb15-13" aria-hidden="true" tabindex="-1"></a></span>
 <span id="cb15-14"><a href="#cb15-14" aria-hidden="true" tabindex="-1"></a></span>
-<span id="cb15-15"><a href="#cb15-15" aria-hidden="true" tabindex="-1"></a>df_long <span class="ot">&lt;-</span> TP_f <span class="sc">%&gt;%</span></span>
-<span id="cb15-16"><a href="#cb15-16" aria-hidden="true" tabindex="-1"></a>  <span class="fu">pivot_longer</span>(</span>
-<span id="cb15-17"><a href="#cb15-17" aria-hidden="true" tabindex="-1"></a>    <span class="at">cols =</span> <span class="fu">starts_with</span>(<span class="st">"P["</span>), <span class="co"># Selects all columns starting with "P["</span></span>
-<span id="cb15-18"><a href="#cb15-18" aria-hidden="true" tabindex="-1"></a>    <span class="at">names_to =</span> <span class="st">"TP"</span>,    <span class="co"># New column for the original column names</span></span>
-<span id="cb15-19"><a href="#cb15-19" aria-hidden="true" tabindex="-1"></a>    <span class="at">values_to =</span> <span class="st">"Value"</span>        <span class="co"># New column for the values</span></span>
-<span id="cb15-20"><a href="#cb15-20" aria-hidden="true" tabindex="-1"></a>  )</span>
-<span id="cb15-21"><a href="#cb15-21" aria-hidden="true" tabindex="-1"></a></span>
-<span id="cb15-22"><a href="#cb15-22" aria-hidden="true" tabindex="-1"></a>Probs_f <span class="ot">&lt;-</span> df_long <span class="sc">|&gt;</span> <span class="fu">ggplot</span>(<span class="fu">aes</span>(<span class="at">x =</span> Weeks, <span class="at">y =</span> Value, <span class="at">color =</span> TP)) <span class="sc">+</span></span>
-<span id="cb15-23"><a href="#cb15-23" aria-hidden="true" tabindex="-1"></a>  <span class="fu">geom_line</span>() <span class="sc">+</span></span>
-<span id="cb15-24"><a href="#cb15-24" aria-hidden="true" tabindex="-1"></a>  <span class="fu">facet_wrap</span>(<span class="sc">~</span> TP, <span class="at">scales =</span> <span class="st">"free_y"</span>) <span class="sc">+</span></span>
-<span id="cb15-25"><a href="#cb15-25" aria-hidden="true" tabindex="-1"></a>  <span class="fu">labs</span>(<span class="at">title =</span> <span class="st">"State Transition Probabilities over Time"</span>,</span>
-<span id="cb15-26"><a href="#cb15-26" aria-hidden="true" tabindex="-1"></a>       <span class="at">x =</span> <span class="st">"Weeks"</span>, <span class="at">y =</span> <span class="st">"Transition Probability"</span>)</span>
-<span id="cb15-27"><a href="#cb15-27" aria-hidden="true" tabindex="-1"></a>Probs_f</span></code><button title="Copy to Clipboard" class="code-copy-button"><i class="bi"></i></button></pre></div>
+<span id="cb15-15"><a href="#cb15-15" aria-hidden="true" tabindex="-1"></a><span class="co">#head(TP)</span></span>
+<span id="cb15-16"><a href="#cb15-16" aria-hidden="true" tabindex="-1"></a></span>
+<span id="cb15-17"><a href="#cb15-17" aria-hidden="true" tabindex="-1"></a></span>
+<span id="cb15-18"><a href="#cb15-18" aria-hidden="true" tabindex="-1"></a>df_long_f <span class="ot">&lt;-</span> TP_f <span class="sc">%&gt;%</span></span>
+<span id="cb15-19"><a href="#cb15-19" aria-hidden="true" tabindex="-1"></a>  <span class="fu">pivot_longer</span>(</span>
+<span id="cb15-20"><a href="#cb15-20" aria-hidden="true" tabindex="-1"></a>    <span class="at">cols =</span> <span class="fu">starts_with</span>(<span class="st">"P["</span>), <span class="co"># Selects all columns starting with "P["</span></span>
+<span id="cb15-21"><a href="#cb15-21" aria-hidden="true" tabindex="-1"></a>    <span class="at">names_to =</span> <span class="st">"TP"</span>,    <span class="co"># New column for the original column names</span></span>
+<span id="cb15-22"><a href="#cb15-22" aria-hidden="true" tabindex="-1"></a>    <span class="at">values_to =</span> <span class="st">"Value"</span>        <span class="co"># New column for the values</span></span>
+<span id="cb15-23"><a href="#cb15-23" aria-hidden="true" tabindex="-1"></a>  )</span>
+<span id="cb15-24"><a href="#cb15-24" aria-hidden="true" tabindex="-1"></a></span>
+<span id="cb15-25"><a href="#cb15-25" aria-hidden="true" tabindex="-1"></a>Probs_f <span class="ot">&lt;-</span> df_long_f <span class="sc">|&gt;</span> <span class="fu">ggplot</span>(<span class="fu">aes</span>(<span class="at">x =</span> Weeks, <span class="at">y =</span> Value, <span class="at">color =</span> TP)) <span class="sc">+</span></span>
+<span id="cb15-26"><a href="#cb15-26" aria-hidden="true" tabindex="-1"></a>  <span class="fu">geom_line</span>() <span class="sc">+</span></span>
+<span id="cb15-27"><a href="#cb15-27" aria-hidden="true" tabindex="-1"></a>  <span class="fu">facet_wrap</span>(<span class="sc">~</span> TP, <span class="at">scales =</span> <span class="st">"free_y"</span>) <span class="sc">+</span></span>
+<span id="cb15-28"><a href="#cb15-28" aria-hidden="true" tabindex="-1"></a>  <span class="fu">scale_x_continuous</span>(<span class="st">`</span><span class="at">breaks</span><span class="st">`</span> <span class="ot">=</span> <span class="fu">seq</span>(<span class="dv">0</span>, <span class="fu">length</span>(Weeks), <span class="at">by =</span> <span class="dv">12</span>)) <span class="sc">+</span></span>
+<span id="cb15-29"><a href="#cb15-29" aria-hidden="true" tabindex="-1"></a>  <span class="fu">labs</span>(<span class="at">title =</span> <span class="st">"State Transition Probabilities over Time"</span>,</span>
+<span id="cb15-30"><a href="#cb15-30" aria-hidden="true" tabindex="-1"></a>       <span class="at">x =</span> <span class="st">"Weeks"</span>, <span class="at">y =</span> <span class="st">"Transition Probability"</span>)</span>
+<span id="cb15-31"><a href="#cb15-31" aria-hidden="true" tabindex="-1"></a>Probs_f</span></code><button title="Copy to Clipboard" class="code-copy-button"><i class="bi"></i></button></pre></div>
 </details>
 <div class="cell-output-display">
 <p><img src="5-state-EM_files/figure-html/unnamed-chunk-9-1.png" class="img-fluid" width="672"></p>
